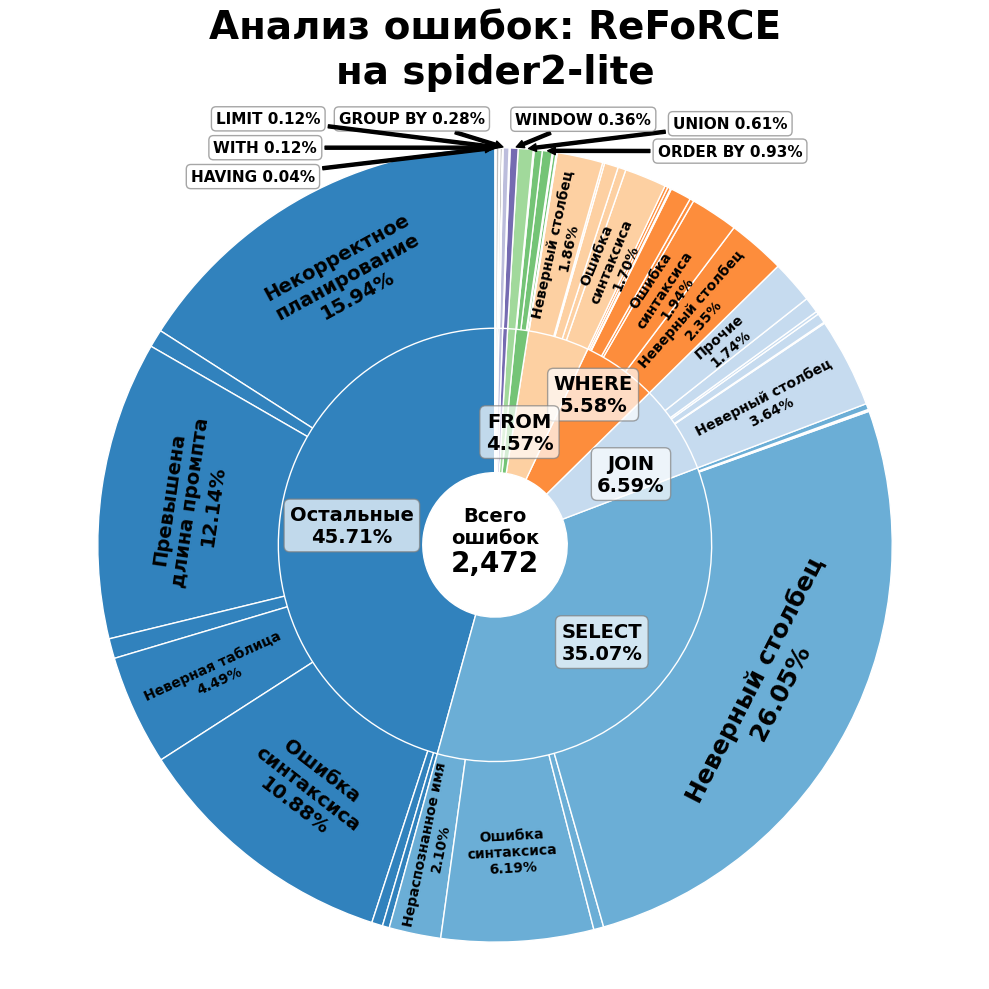
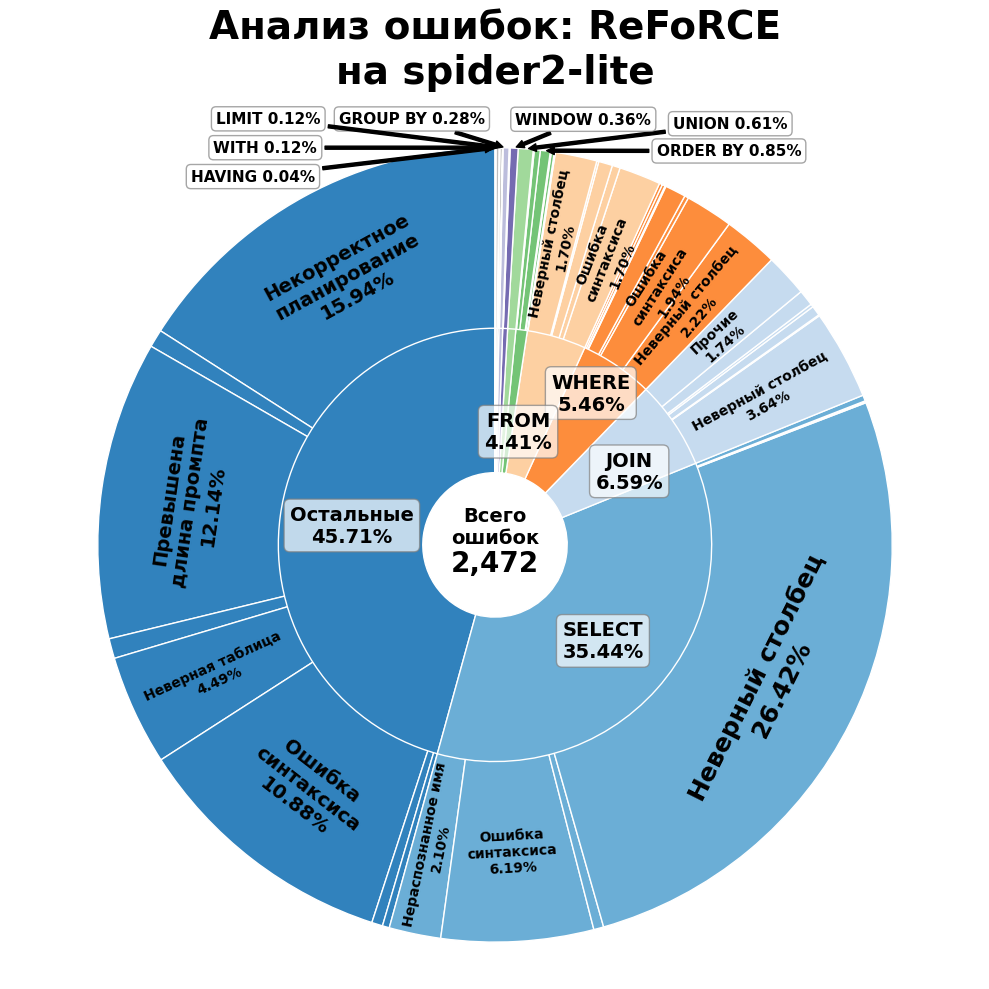
Визуализирована статистика ошибок для AutoLink

diff --git a/analysis/entity_recognition.py b/analysis/entity_recognition.py
@@ -30,6 +30,7 @@ error_categories = {
             ("Expressions of type", "cannot be used as GROUP BY keys"),
             "aggregate function calls cannot be nested",
             "window function calls cannot be nested", 
+            "No matching signature for aggregate function",
         ],
         "Некорректное планирование": [
             "No data found for the specified query",
@@ -40,7 +41,7 @@ error_categories = {
             "Single-row subquery returns more than one row",
             "near \"GROUP\"", "unexpected 'UNION'",
             ("Subquery of type", "must have only one output column"),
-            "near \"UNION\"",
+            "near \"UNION\"", "Unsupported subquery type cannot be evaluated"
         ]
     }, 
     "Неверное следование схеме": {
@@ -66,6 +67,7 @@ error_categories = {
             "Wildcard matched incompatible partitioning/clustering tables",
             "near \"AS\"", "ORDER BY term does not match any column",
             "invalid identifier '",
+            ("Schema","does not exist or not authorized."),
         ],
         "Нераспознанное имя": [
             "Unrecognized name: ",
@@ -114,8 +116,11 @@ error_categories = {
             "concatenated string literals must be separated by whitespace or comments", "Bad int64 value",
             "ORDER BY key must be numeric in a RANGE-based window", ("does not support the", "date part when the argument is", "type"),
             "A valid date part name is required but found", "in arguments is not supported on scalar functions",
-            "Illegal escape sequence", "produced too many elements",
-            "Bad input format model", ("String", "is too long and would be truncated"), 
+            "Illegal escape sequence", "produced too many elements", "Invalid JSON path syntax", "Bad input format model", 
+            ("String", "is too long and would be truncated"), ("Numeric value", "is not recognized"),
+            ("Function", "cannot be used with arguments of types"), ("invalid type", "for parameter"),
+            "Invalid argument types for function", ("Array position in", "must be coercible to", "type, but has type"),
+            
 
             "Unsupported feature", "invalid identifier", "unexpected", "syntax error"
         ]
@@ -134,6 +139,7 @@ column_patterns = [
     r"ambiguous column name:?\s*['\"]?([\w\.\:]+)['\"]?",
     r"near\s+\"([\w\.\:]+)\"",  # Может быть именем столбца
     r"invalid identifier\s+[\`\'\"]([\w\.\:\"]+)[\`\'\"]",
+    r"Schema\s+['\"]?([\w\.\:]+)['\"]?\s+does not exist or not authorized"
 ]
 
 table_patterns = [
@@ -185,6 +191,7 @@ syntax_patterns = [
     r'(?:Numeric value|Timestamp|Date|String)\s*[\'"]?([^\'"]+?)[\'"]?\s*(?:is not recognized|is too long)',
     r"Can't parse\s+'([^']+)'\s+as\s+(?:date|timestamp|number)\s+with\s+format",
     r"Invalid extraction path\s+'([^']+)'",
+    r"invalid type\s+'([^']+)'\s+for parameter"
 ]
 
 

diff --git a/analysis/clause_recognition.py b/analysis/clause_recognition.py
@@ -14,6 +14,7 @@ explicit_groupped_patterns = {
         "JOIN cannot be used without a condition",
         "Correlated subqueries",
         "Unsupported subquery with table in join predicate",
+        r"lateral table function called with [\w\s]+ syntax or a join predicate",
     ],
     'WHERE': [],
     'GROUP BY': [
@@ -69,8 +70,9 @@ def find_error_operator(sql: str, error_message: str = None, error_position: tup
         for pattern in explicit_groupped_patterns[group]:
             if isinstance(pattern, tuple) and all(part in error_message for part in pattern):
                 return group
-            elif isinstance(pattern, str) and ((pattern in error_message) or re.match(pattern, error_message)):
-                return group
+            elif isinstance(pattern, str):
+                if pattern in error_message or re.match(pattern, error_message):
+                    return group
 
     # Нормализуем диалект для парсинга
     dialect_map = {